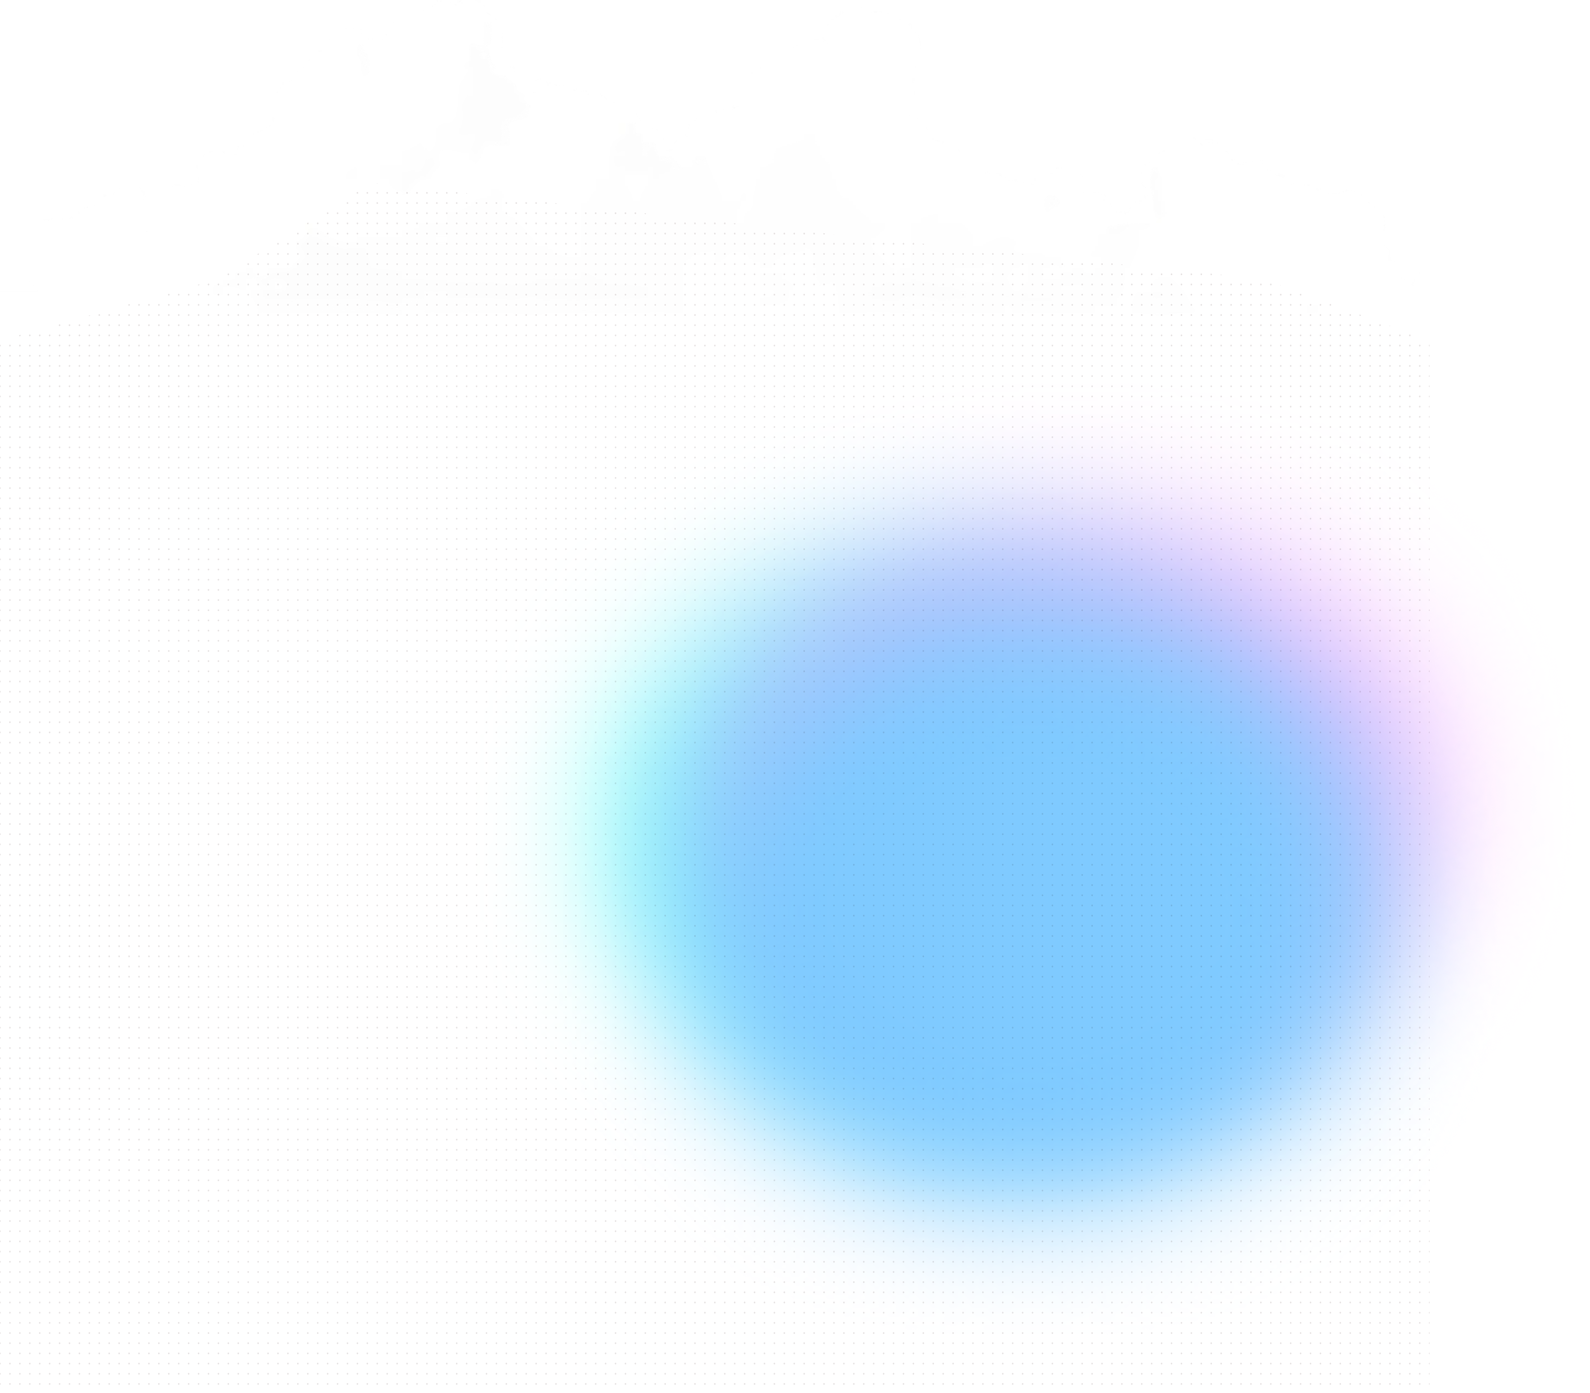
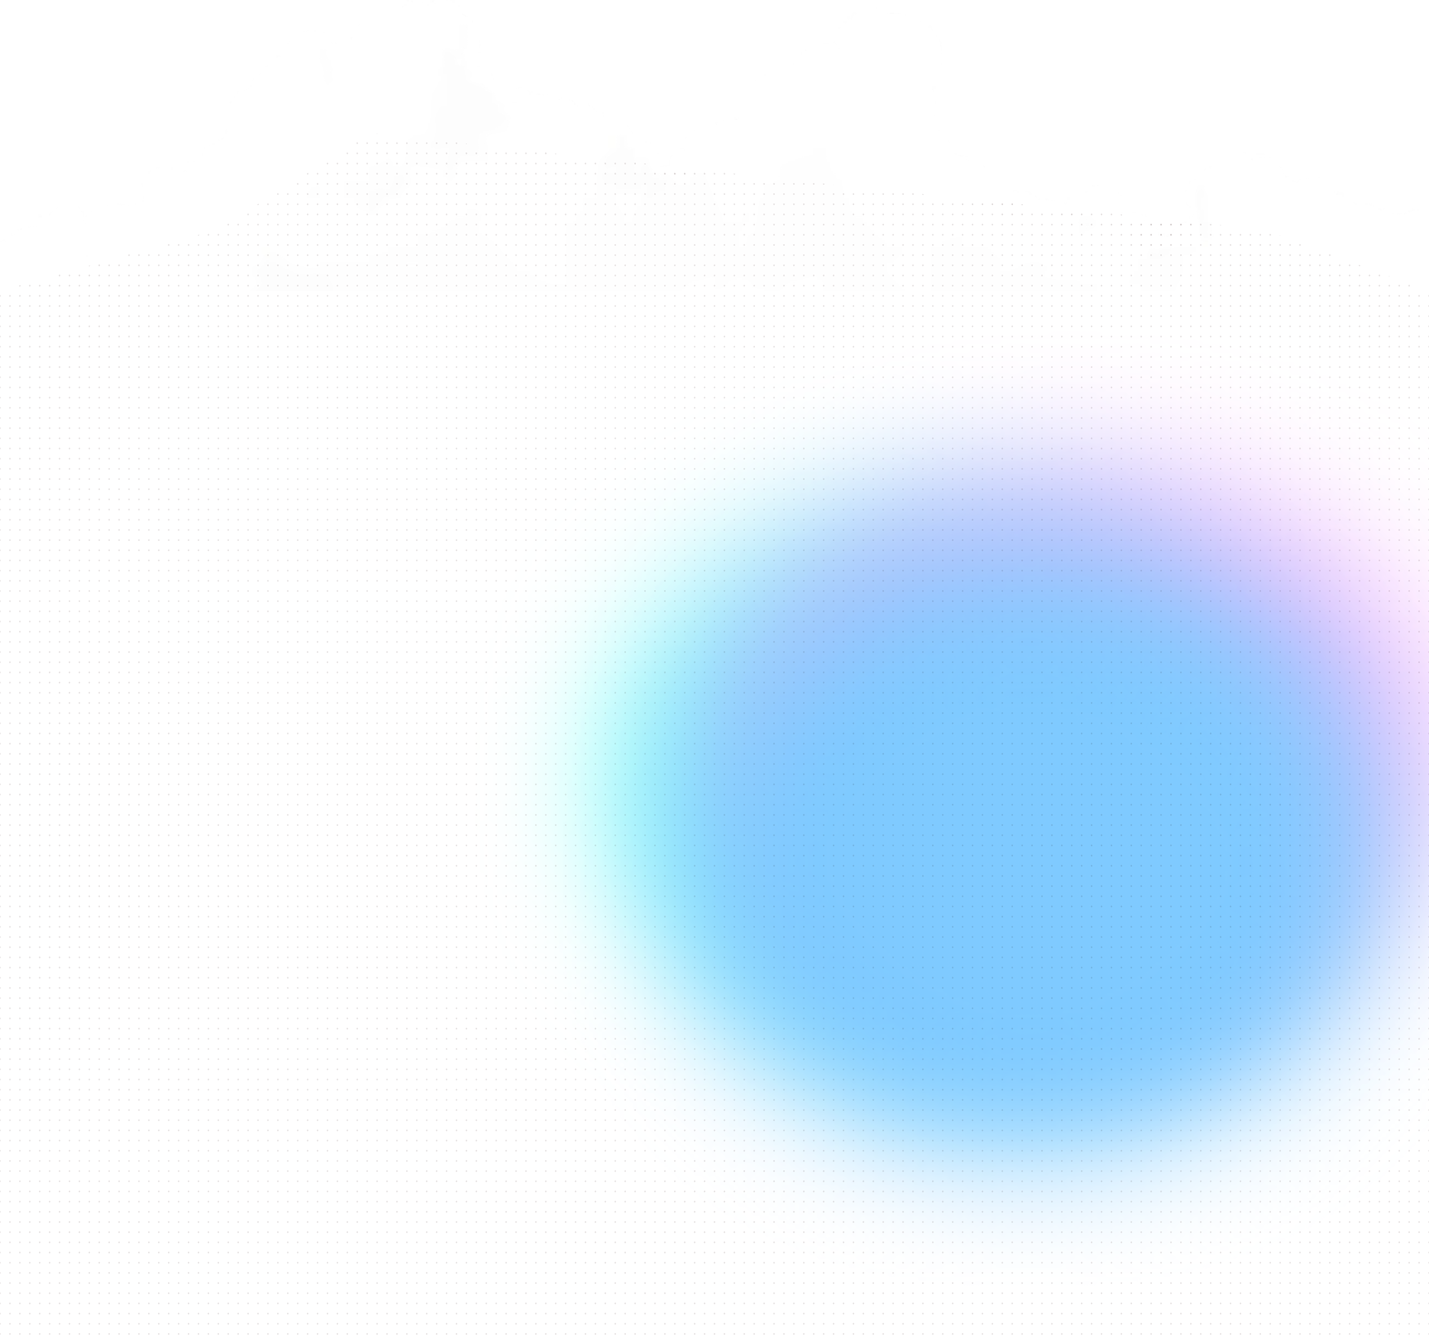
Feature section: 3-layer cloud parallax + Figma stepper polish
- Replace single cloud bg with 3 independent parallax cloud layers
  (bottom/middle/top). Each enters at its own time and speed with a
  subtle scroll-driven horizontal drift; bottom appears first, top
  (white section) overtakes and settles as the feature background
- Stats stay frozen behind the rising clouds via position:fixed pin
  (compositor-pinned, engaged at the stats' entry) — fixes the
  scroll jitter; overflow-anchor:none prevents re-anchor jumps
- Adaptive base settle so the white section always fills to the
  bottom (no stats peeking below), derived from width (no per-frame
  offsetHeight layout thrash); downscaled cloud PNGs
- Figma-matched numbered stepper (01-06) with active progress line
- Staged reveal: phone -> per-word title blur -> feature items
  blur in from the left (staggered) -> beats advance

Changed region(s): [[0.6562, 0.3415, 1.0, 0.9002], [0.3438, 0.4656, 0.625, 0.9002]]

diff --git a/app/components/ShikhoHome.tsx b/app/components/ShikhoHome.tsx
@@ -104,26 +104,30 @@ const FEATURE_MARKUP = `
   <section id="featTrack" data-dark="0" style="position:relative;height:560vh;margin-top:-100vh;z-index:2;">
     <div id="featStage" style="position:sticky;top:0;height:100vh;overflow:hidden;">
 
-      <!-- single cloud+body+blob image; only the empty transparent side margins bleed off-screen (full width). It scroll-rises as one piece: the transparent top passes over the stats and up beyond the viewport, bringing the blob region into view for the phone to sit on. -->
-      <img id="featBg" src="/assets/feature-bg.png" alt="" style="position:absolute;left:-1.5%;top:0;width:116%;max-width:none;height:auto;z-index:0;pointer-events:none;will-change:transform;">
+      <!-- three parallax cloud layers that fly up over the stats. base = top cloud + full white dotted section; mid + bottom = extra cloud volume that sweeps up faster. positions driven by the scroll loop. -->
+      <img id="featBot" src="/assets/feature-bot.png" alt="" style="position:absolute;left:44%;top:0;width:56%;max-width:none;height:auto;z-index:0;pointer-events:none;will-change:transform;">
+      <img id="featMid" src="/assets/feature-mid.png" alt="" style="position:absolute;left:60%;top:0;width:50%;max-width:none;height:auto;z-index:1;pointer-events:none;will-change:transform;">
+      <img id="featBase" src="/assets/feature-base.png" alt="" style="position:absolute;left:-2%;top:0;width:104%;max-width:none;height:auto;z-index:2;pointer-events:none;will-change:transform;">
 
       <!-- content on the left -->
-      <div style="position:absolute;left:7%;top:50vh;max-width:600px;z-index:3;">
-        <h2 style="font-family:'Anek Bangla',sans-serif;font-weight:700;font-size:clamp(28px,3.1vw,50px);line-height:1.12;margin:0;color:#0F1B4C;letter-spacing:-.01em;"><span style="color:#2D4797;">Shikho</span> একাডেমিক প্রোগ্রামে<br>যা যা থাকছে</h2>
+      <div id="featIntro" style="position:absolute;left:7%;top:14vh;max-width:600px;z-index:3;opacity:0;will-change:opacity;">
+        <h2 style="font-family:'Anek Bangla',sans-serif;font-weight:700;font-size:clamp(28px,3.1vw,50px);line-height:1.12;margin:0;color:#161b33;letter-spacing:-.01em;">Shikho একাডেমিক প্রোগ্রামে<br>যা যা থাকছে</h2>
       </div>
 
-      <div id="featList" style="position:absolute;left:7%;top:calc(50vh + 120px);width:min(37%,440px);z-index:3;">
-        <div class="fitem on" data-i="0"><div class="fitem-row"><span class="fnum">০১</span><span class="flabel">লাইভ ক্লাস</span></div><div class="fbody"><p class="fhead">সরাসরি ক্লাসে যুক্ত হও, প্রশ্ন করো সাথে সাথেই।</p></div></div>
-        <div class="fitem" data-i="1"><div class="fitem-row"><span class="fnum">০২</span><span class="flabel">স্মার্ট ক্লাস</span></div><div class="fbody"><p class="fhead">ভিডিও দেখো, AI দিয়ে যেকোনো অংশ বুঝে নাও।</p></div></div>
-        <div class="fitem" data-i="2"><div class="fitem-row"><span class="fnum">০৩</span><span class="flabel">অ্যানিমেটেড ভিডিও</span></div><div class="fbody"><p class="fhead">কঠিন টপিকও সহজ হবে, প্রাণবন্ত অ্যানিমেশনে।</p></div></div>
-        <div class="fitem" data-i="3"><div class="fitem-row"><span class="fnum">০৪</span><span class="flabel">ই-বুক</span></div><div class="fbody"><p class="fhead">ক্লাস নোট আর পিডিএফ — সব এক জায়গায়।</p></div></div>
-        <div class="fitem" data-i="4"><div class="fitem-row"><span class="fnum">০৫</span><span class="flabel">কুইজ ও মডেল টেস্ট</span></div><div class="fbody"><p class="fhead">নিজেকে যাচাই করো, যেকোনো সময়।</p></div></div>
-        <div class="fitem" data-i="5"><div class="fitem-row"><span class="fnum">০৬</span><span class="flabel">শিখো AI</span></div><div class="fbody"><p class="fhead">যেকোনো প্রশ্ন, তাৎক্ষণিক উত্তর।</p></div></div>
+      <div id="featList" style="position:absolute;left:7%;top:calc(14vh + 150px);width:min(42%,520px);z-index:3;opacity:0;will-change:opacity;">
+        <div id="featProgTrack"></div>
+        <div id="featProg"></div>
+        <div class="fitem on" data-i="0"><div class="frow"><span class="fnum">০১</span><span class="flabel">লাইভ ক্লাস</span></div><div class="fbody"><p>সরাসরি ক্লাসে যুক্ত হও, প্রশ্ন করো — সাথে সাথেই উত্তর।</p></div></div>
+        <div class="fitem" data-i="1"><div class="frow"><span class="fnum">০২</span><span class="flabel">স্মার্ট ক্লাস</span></div><div class="fbody"><p>রেকর্ডেড ভিডিও দেখো, AI দিয়ে যেকোনো অংশ বুঝে নাও।</p></div></div>
+        <div class="fitem" data-i="2"><div class="frow"><span class="fnum">০৩</span><span class="flabel">অ্যানিমেটেড ভিডিও</span></div><div class="fbody"><p>কঠিন টপিকও সহজ হয়ে যায় প্রাণবন্ত অ্যানিমেশনে।</p></div></div>
+        <div class="fitem" data-i="3"><div class="frow"><span class="fnum">০৪</span><span class="flabel">ই-বুক</span></div><div class="fbody"><p>ক্লাস নোট আর পিডিএফ — পুরো সিলেবাস এক জায়গায়।</p></div></div>
+        <div class="fitem" data-i="4"><div class="frow"><span class="fnum">০৫</span><span class="flabel">কুইজ ও মডেল টেস্ট</span></div><div class="fbody"><p>প্রতিটা অধ্যায় শেষে নিজেকে যাচাই করো, যেকোনো সময়।</p></div></div>
+        <div class="fitem" data-i="5"><div class="frow"><span class="fnum">০৬</span><span class="flabel">শিখো AI</span></div><div class="fbody"><p>প্রশ্ন লেখো বা ছবি তোলো — উত্তর মেলে তাৎক্ষণিক।</p></div></div>
       </div>
 
       <!-- phone + floating elements sit over the blob (baked into the background) -->
-      <div id="featPhone" style="position:absolute;left:61%;top:50vh;transform:translateX(-50%);z-index:2;will-change:transform;">
-        <img src="/assets/feature-phone.png" alt="" style="height:52vh;width:auto;display:block;">
+      <div id="featPhone" style="position:absolute;left:78%;top:14vh;transform:translateX(-50%);z-index:2;opacity:0;will-change:transform,opacity;">
+        <img src="/assets/feature-phone.png" alt="" style="height:82vh;width:auto;display:block;">
         <img id="featCard" src="/assets/feature-card.png" alt="" style="position:absolute;left:-24%;top:30%;width:62%;height:auto;z-index:4;will-change:transform;filter:drop-shadow(0 22px 40px rgba(13,26,91,.18));">
         <img id="featDate" src="/assets/feature-date.png" alt="" style="position:absolute;right:-14%;bottom:12%;width:56%;height:auto;z-index:4;will-change:transform;filter:drop-shadow(0 22px 40px rgba(13,26,91,.18));">
       </div>
@@ -241,6 +245,7 @@ export default function ShikhoHome() {
 
     // ---- window-hero → stats cascade (one pinned section) ----
     const statsTrack = q('#statsTrack');
+    const statsStage = q('#statsStage');
     const statsHead = q('#statsHead');
     const statsGroup = q('#statsGroup');
     const scards = qa('.scard');
@@ -250,7 +255,13 @@ export default function ShikhoHome() {
 
     // ---- core features (accordion + phone) ----
     const featTrack = q('#featTrack');
-    const featBg = q('#featBg');
+    const featBase = q('#featBase');
+    const featMid = q('#featMid');
+    const featBot = q('#featBot');
+    const featIntro = q('#featIntro');
+    const featList = q('#featList');
+    const featProgTrack = q('#featProgTrack');
+    const featProg = q('#featProg');
     const fitems = qa('.fitem');
     const featPhone = q('#featPhone');
     const featCard = q('#featCard');
@@ -281,6 +292,8 @@ export default function ShikhoHome() {
     const hsTitleWords = wrapWords(q('#hsText h1'));
     const hsSubWords = wrapWords(q('#hsText p'));
     const headWords = wrapWords(q('#statsHead h2'));
+    const featTitleWords = wrapWords(q('#featIntro h2'));
+    if (featTitleWords[0]) featTitleWords[0].style.color = '#3b4ee3'; // keep "Shikho" in the brand indigo
 
     const render = () => {
       const vh = window.innerHeight;
@@ -368,24 +381,117 @@ export default function ShikhoHome() {
         });
       }
 
-      // ---- core features: accordion advances + phone parallax ----
+      // ---- core features: staged entrance, then the accordion advances ----
       if (featTrack && fitems.length) {
         const ft = featTrack.getBoundingClientRect();
         const fTravel = featTrack.offsetHeight - vh;
         const fp = clamp(-ft.top / fTravel, 0, 1);
-        // 6 beats spread across the middle of the scroll (small lead-in / lead-out)
-        const active = clamp(Math.floor(mc(fp, 0.05, 0.92) * fitems.length), 0, fitems.length - 1);
+
+        // Freeze the stats so it doesn't move a pixel while the clouds fly over it. A JS
+        // counter-transform can't cancel compositor scrolling (lags a frame → jump), so pin it
+        // on the compositor with position:fixed. Engage the moment the stats reach the top
+        // (statsTrack.top ≤ 0) — the sticky is pinned at top:0 there so the swap is seamless,
+        // AND it happens at the stats' entry, far from the cloud transition. Stays fixed right
+        // through the transition (no layout change during it), then hands back to sticky once
+        // the white section has covered it. Only touch styles on state change.
+        if (statsStage && statsTrack) {
+          const el = statsStage as HTMLElement;
+          const pinned = statsTrack.getBoundingClientRect().top <= 0 && fp < 0.5;
+          if (pinned && el.dataset.frozen !== '1') {
+            el.dataset.frozen = '1';
+            el.style.position = 'fixed';
+            el.style.top = '0';
+            el.style.left = '0';
+            el.style.width = '100%';
+          } else if (!pinned && el.dataset.frozen === '1') {
+            el.dataset.frozen = '0';
+            el.style.position = 'sticky';
+            el.style.left = '';
+            el.style.width = '';
+          }
+        }
+
+        // 1) clouds fly up from below over the stats. base (TOP cloud + full white section)
+        // is in front and rises so its cloud SURPASSES the whole stats (white body fills to
+        // the top). mid + bottom are smaller puffs behind, faster, for parallax depth.
+        // Layered parallax: each cloud enters at its OWN time and moves at its OWN speed, with a
+        // subtle scroll-driven horizontal drift (a different phase each) so they never align.
+        // Bottom enters first & slowest (0.55x); Middle next & medium (0.8x); the Top — which
+        // carries the white feature section — enters last & fastest (1.15x) and overtakes to
+        // cover the others. Each has an independent translate3d (never grouped).
+        const drift = (amp: number, ph: number) => (amp * Math.sin(fp * 7 + ph)).toFixed(1);
+        if (featBot) {
+          const y = lerp(120, -35, mc(fp, 0.02, 0.56)); // enters FIRST and rises well up into view
+          featBot.style.transform = `translate3d(${drift(8, 0)}px, ${y}vh, 0)`;
+        }
+        if (featMid) {
+          const y = lerp(120, -62, mc(fp, 0.13, 0.53)); // enters ~25%, medium — rises well above
+          featMid.style.transform = `translate3d(${drift(12, 2.4)}px, ${y}vh, 0)`;
+        }
+        if (featBase) {
+          // enters ~40%, fastest — overtakes and settles so the white section fills to the
+          // bottom (covering the others fully) with its cloud lifted above. baseH from width
+          // (104%, aspect 2880:3158) so we never read offsetHeight in the loop (layout thrash).
+          const baseH = 1.1404 * document.documentElement.clientWidth;
+          const settleY = Math.max(vh - baseH + 6, -0.35 * baseH);
+          const y = lerp(1.10 * vh, settleY, mc(fp, 0.23, 0.48));
+          featBase.style.transform = `translate3d(${drift(15, 4.8)}px, ${y}px, 0)`;
+        }
+
+        // 2) once the top cloud has taken over, the phone rises + fades in
+        const pPhone = mc(fp, 0.48, 0.62);
+        if (featPhone) {
+          featPhone.style.opacity = String(pPhone);
+          featPhone.style.transform = `translateX(-50%) translateY(${lerp(44, 0, pPhone)}px)`;
+        }
+        // 3) the title does its per-word blur reveal, then the feature items blur in from the
+        //    LEFT, one after another (staggered), like the list assembling itself.
+        if (featIntro) {
+          featIntro.style.opacity = '1';
+          wordFx(featTitleWords, fp, 0.52, 0.64, 0.013, null, 0, 0);
+        }
+        if (featList) (featList as HTMLElement).style.opacity = '1';
+        fitems.forEach((it, i) => {
+          const p = eo(mc(fp, 0.54 + i * 0.018, 0.63 + i * 0.018));
+          const el = it as HTMLElement;
+          el.style.opacity = String(p);
+          const blur = (1 - p) * 8;
+          el.style.filter = blur < 0.05 ? 'none' : `blur(${blur.toFixed(2)}px)`;
+          el.style.transform = `translateX(${((1 - p) * -46).toFixed(1)}px)`;
+        });
+        // 4) the active step advances as you scroll on (after the items have assembled)
+        const pBeats = mc(fp, 0.74, 0.96);
+        const segf = pBeats * (fitems.length - 1);   // 0 .. n-1
+        const active = clamp(Math.floor(segf), 0, fitems.length - 1);
+        const fillFrac = clamp(segf - active, 0, 1);  // progress toward the next step
+        // the progress line fades in with its active item's reveal
+        const activeRevealP = eo(mc(fp, 0.54 + active * 0.018, 0.63 + active * 0.018));
         if (active !== activeFeat) {
           activeFeat = active;
           fitems.forEach((it, i) => it.classList.toggle('on', i === active));
         }
-        // cloud rises as one piece: at pin the cloud sits at the top, then it scrolls
-        // up beyond the viewport (its transparent top revealing the stats behind while it
-        // passes over) until the blob region settles behind the phone.
-        if (featBg) featBg.style.transform = `translateY(${lerp(0, -5, fp)}vw)`;
-        if (featPhone) featPhone.style.transform = `translateX(-50%) translateY(${lerp(24, -24, fp)}px)`;
-        if (featCard) featCard.style.transform = `translateY(${lerp(22, -22, fp)}px)`;
-        if (featDate) featDate.style.transform = `translateY(${lerp(-18, 18, fp)}px)`;
+        // progress line: only between the active badge and the next, filling as you scroll
+        if (featProgTrack && featProg) {
+          const last = active >= fitems.length - 1;
+          if (last) {
+            featProgTrack.style.opacity = '0';
+            featProg.style.opacity = '0';
+          } else {
+            const cur = fitems[active] as HTMLElement;
+            const nxt = fitems[active + 1] as HTMLElement;
+            const top = cur.offsetTop + 52;             // just below the active badge
+            const h = Math.max(0, (nxt.offsetTop - 4) - top); // stop just above the next badge
+            featProgTrack.style.opacity = String(activeRevealP);
+            featProgTrack.style.top = top + 'px';
+            featProgTrack.style.height = h + 'px';
+            featProg.style.opacity = String(activeRevealP);
+            featProg.style.top = top + 'px';
+            featProg.style.height = h * fillFrac + 'px';
+          }
+        }
+        // floating cards keep a gentle parallax relative to the phone
+        if (featCard) featCard.style.transform = `translateY(${lerp(16, -16, fp)}px)`;
+        if (featDate) featDate.style.transform = `translateY(${lerp(-14, 14, fp)}px)`;
       }
     };
 

diff --git a/app/globals.css b/app/globals.css
@@ -24,7 +24,11 @@ body {
   background: #FBFAF7;
   color: #161B33;
   font-family: 'Plus Jakarta Sans', 'Hind Siliguri', sans-serif;
+  /* scroll-driven scene: never let the browser re-anchor the scroll offset when a
+     pinned section changes position/layout mid-scroll (that causes the transition jump). */
+  overflow-anchor: none;
 }
+* { overflow-anchor: none; }
 
 /* Tailwind's preflight resets img to {max-width:100%;height:auto}, which
    clobbers the inline sizing on the raw hero images. Restore it here. */
@@ -202,63 +206,101 @@ body {
   mask-image: radial-gradient(56% 60% at 100% 0%, #000 0%, rgba(0, 0, 0, 0.55) 38%, transparent 72%);
 }
 
-/* ===== Core features — numbered accordion ===== */
-.fitem {
-  margin-bottom: 2px;
+/* ===== Core features — numbered stepper (matches Figma 88-17100) ===== */
+.feat-kicker {
+  display: inline-flex;
+  align-items: center;
+  gap: 11px;
+  font-family: 'Hind Siliguri', sans-serif;
+  font-size: 14px;
+  font-weight: 700;
+  letter-spacing: 0.05em;
+  color: #3b4ee3;
+  margin-bottom: 15px;
 }
-.fitem-row {
+.feat-kicker::before {
+  content: "";
+  width: 28px;
+  height: 3px;
+  border-radius: 3px;
+  background: #3b4ee3;
+}
+
+/* progress line — shown only for the active step, between its badge and the next;
+   grey track + indigo fill that grows as you scroll (positioned by the scroll loop) */
+#featList {
+  position: relative;
+  display: flex;
+  flex-direction: column;
+  gap: 12px;
+}
+#featProgTrack,
+#featProg {
+  position: absolute;
+  left: 22.5px;              /* badge centre (24) minus half of the 3px stroke */
+  width: 3px;
+  border-radius: 3px;
+  z-index: 0;
+  opacity: 0;
+}
+#featProgTrack { background: rgba(10, 12, 17, 0.12); }
+#featProg { background: #3B4EE3; }
+
+/* each feature is a numbered step */
+.fitem { position: relative; }
+.frow {
   display: flex;
   align-items: center;
-  gap: 18px;
-  padding: 7px 0;
+  gap: 34px;
+  min-height: 48px;
 }
 .fnum {
+  position: relative;
+  z-index: 1;
   flex: none;
   width: 48px;
   height: 48px;
+  border-radius: 14px;
   display: flex;
   align-items: center;
   justify-content: center;
-  border-radius: 14px;
   font-family: 'Anek Bangla', sans-serif;
   font-weight: 700;
-  font-size: 22px;
-  color: #aeb6ce;
-  background: #eaeef9;
-  transition: background 0.45s ease, color 0.45s ease, box-shadow 0.45s ease;
+  font-size: 26px;
+  letter-spacing: -0.46px;
+  color: #0a0c11;
+  background: transparent;
+  transition: color 0.4s ease, background 0.4s ease, box-shadow 0.4s ease;
 }
 .flabel {
-  font-family: 'Anek Bangla', sans-serif;
+  font-family: 'Hind Siliguri', sans-serif;
   font-weight: 600;
-  font-size: 23px;
-  color: #8891ae;
-  transition: color 0.45s ease;
+  font-size: 18px;
+  line-height: 1.15;
+  color: #0a0c11;
+  transition: color 0.4s ease;
 }
 .fbody {
-  padding-left: 66px;
+  padding-left: 82px;        /* align under the label (48 badge + 34 gap) */
   max-height: 0;
   opacity: 0;
   overflow: hidden;
-  transition: max-height 0.55s cubic-bezier(0.22, 0.75, 0.28, 1), opacity 0.45s ease;
+  transition: max-height 0.55s cubic-bezier(0.22, 0.75, 0.28, 1), opacity 0.4s ease;
 }
-.fhead {
+.fbody p {
   font-family: 'Anek Bangla', sans-serif;
-  font-weight: 700;
-  font-size: clamp(26px, 2.3vw, 38px);
-  line-height: 1.14;
-  color: #0f1b4c;
-  letter-spacing: -0.01em;
-  margin: 2px 0 14px;
+  font-weight: 600;
+  font-size: clamp(23px, 2vw, 32px);
+  line-height: 1.26;
+  letter-spacing: -0.46px;
+  color: #161b33;
+  margin: 14px 0 2px;
+  max-width: 480px;
 }
 .fitem.on .fnum {
-  background: var(--accent);
-  color: #fff;
-  box-shadow: 0 12px 24px -6px rgba(250, 167, 0, 0.55);
+  color: #3b4ee3;
+  background: radial-gradient(120% 120% at 18% 12%, #fafafa 0%, #d8dcff 100%);
+  box-shadow: 0 10px 22px -8px rgba(59, 78, 227, 0.32);
 }
-.fitem.on .flabel {
-  color: var(--accent);
-}
-.fitem.on .fbody {
-  max-height: 240px;
-  opacity: 1;
-}
+.fitem.on .flabel { color: #3b4ee3; }
+.fitem.on .fbody { max-height: 220px; opacity: 1; }
